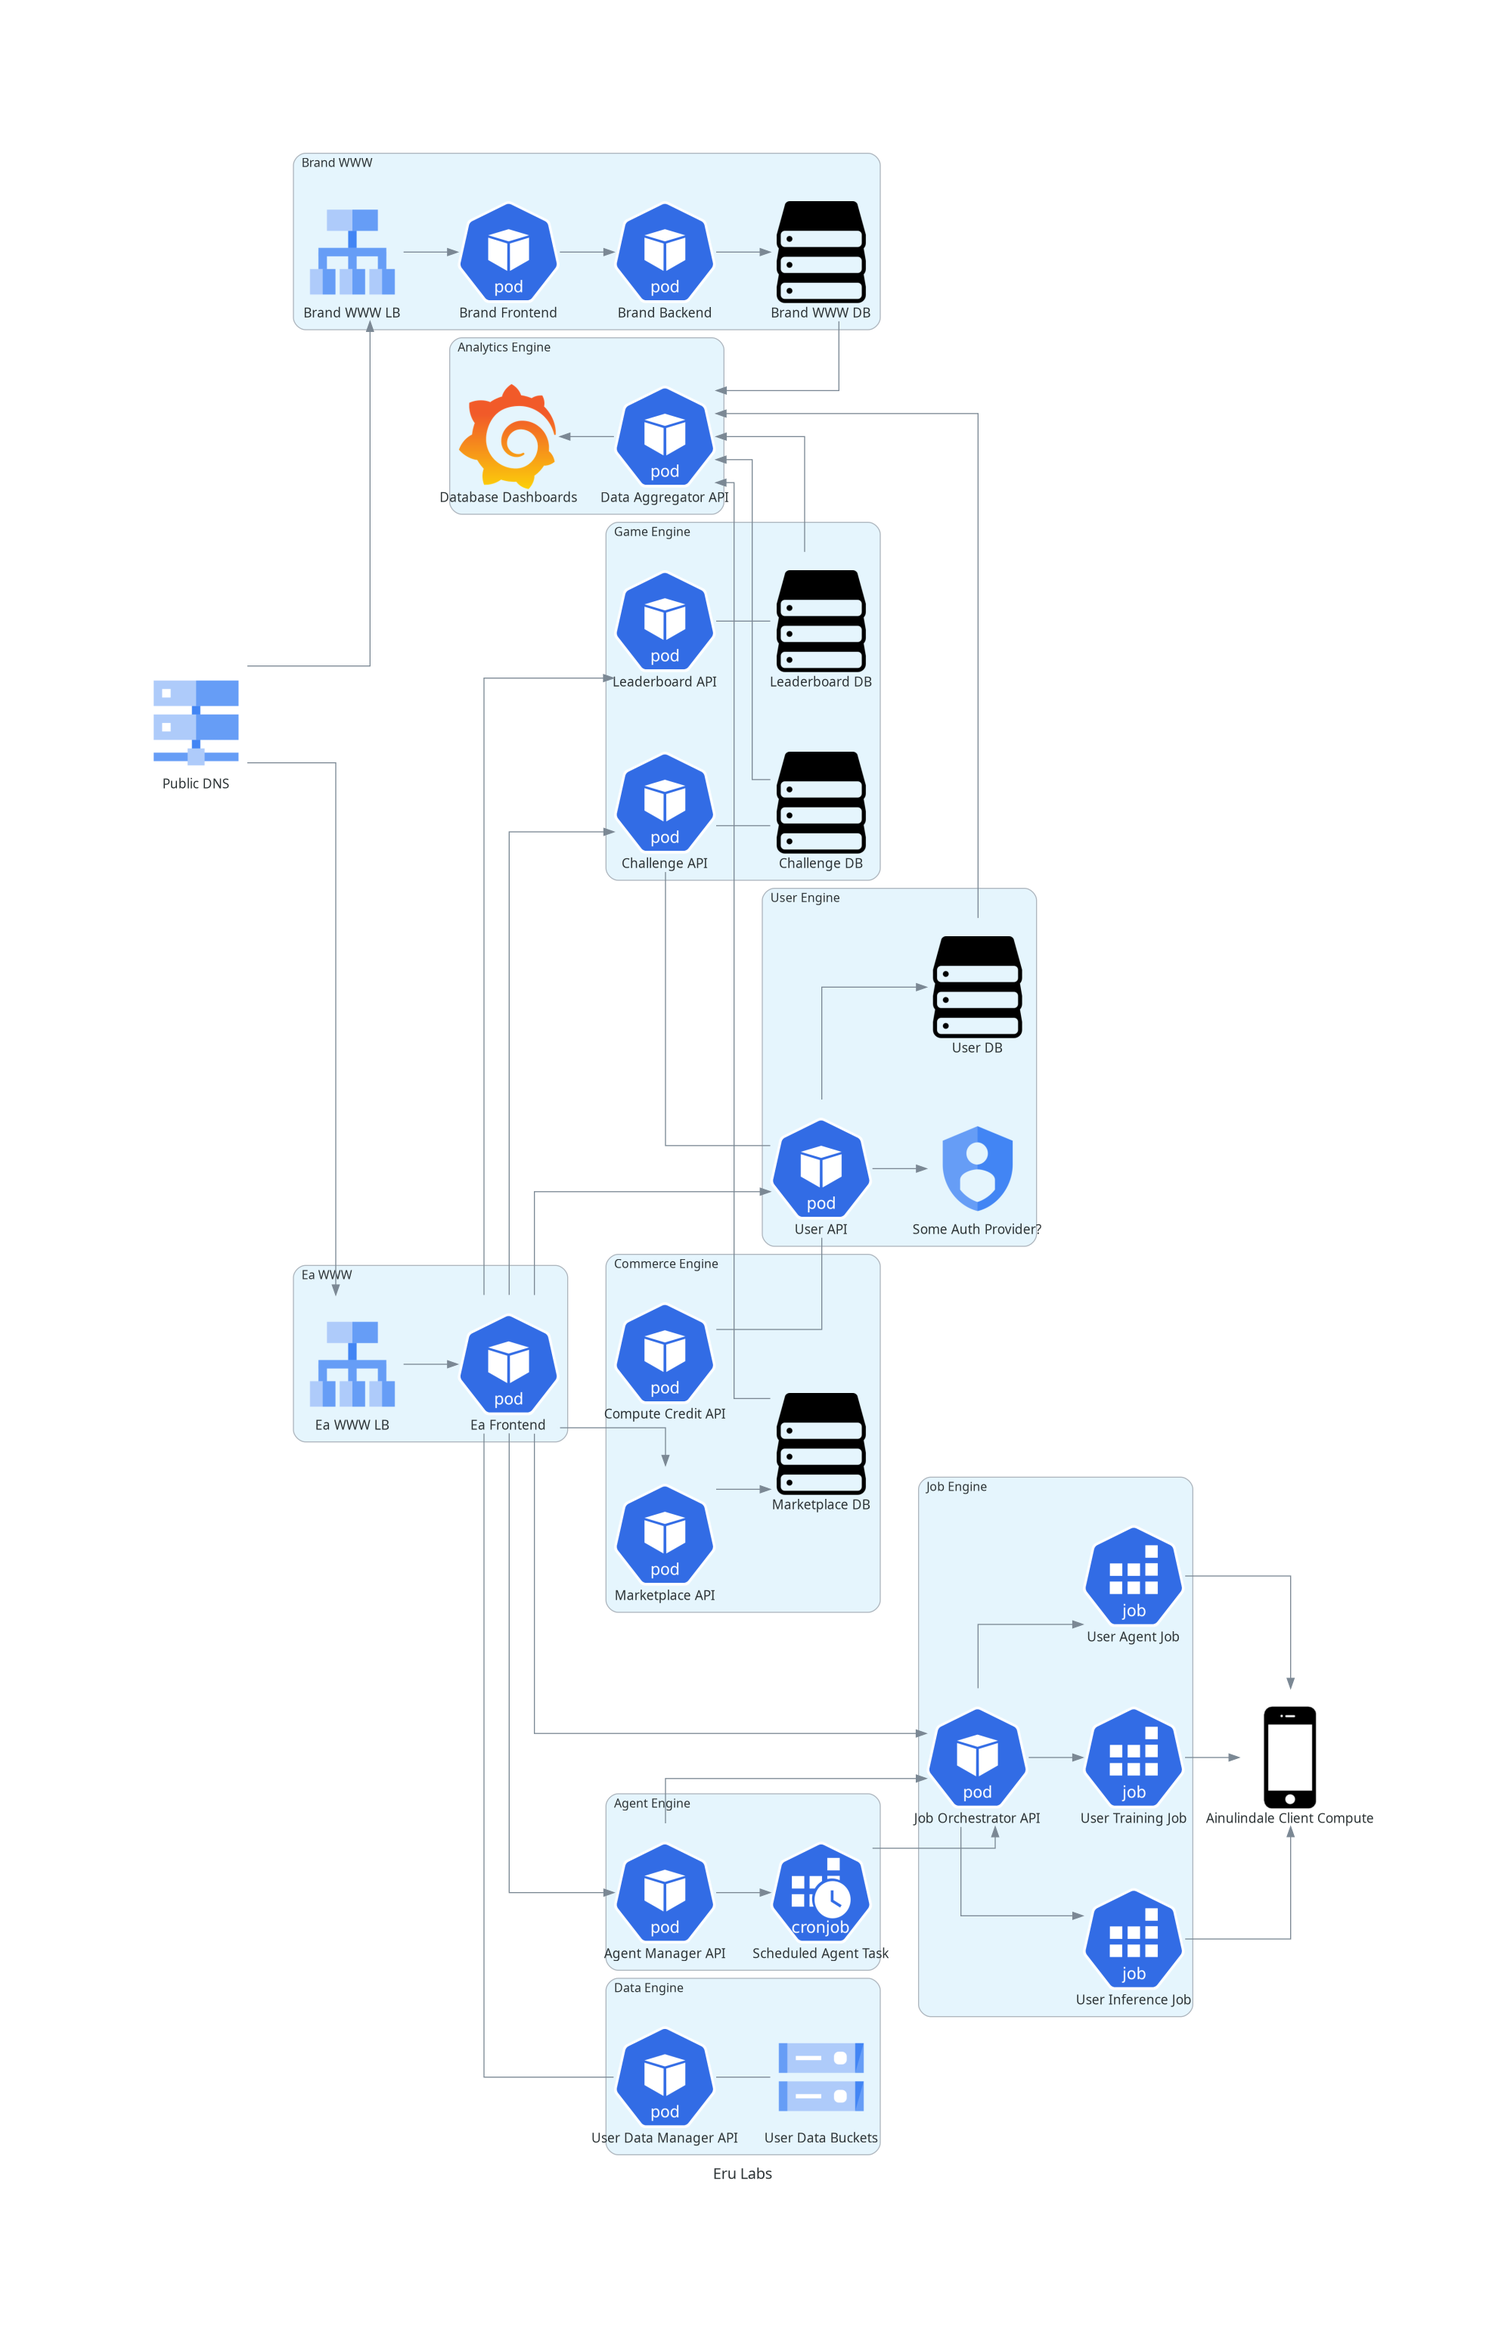
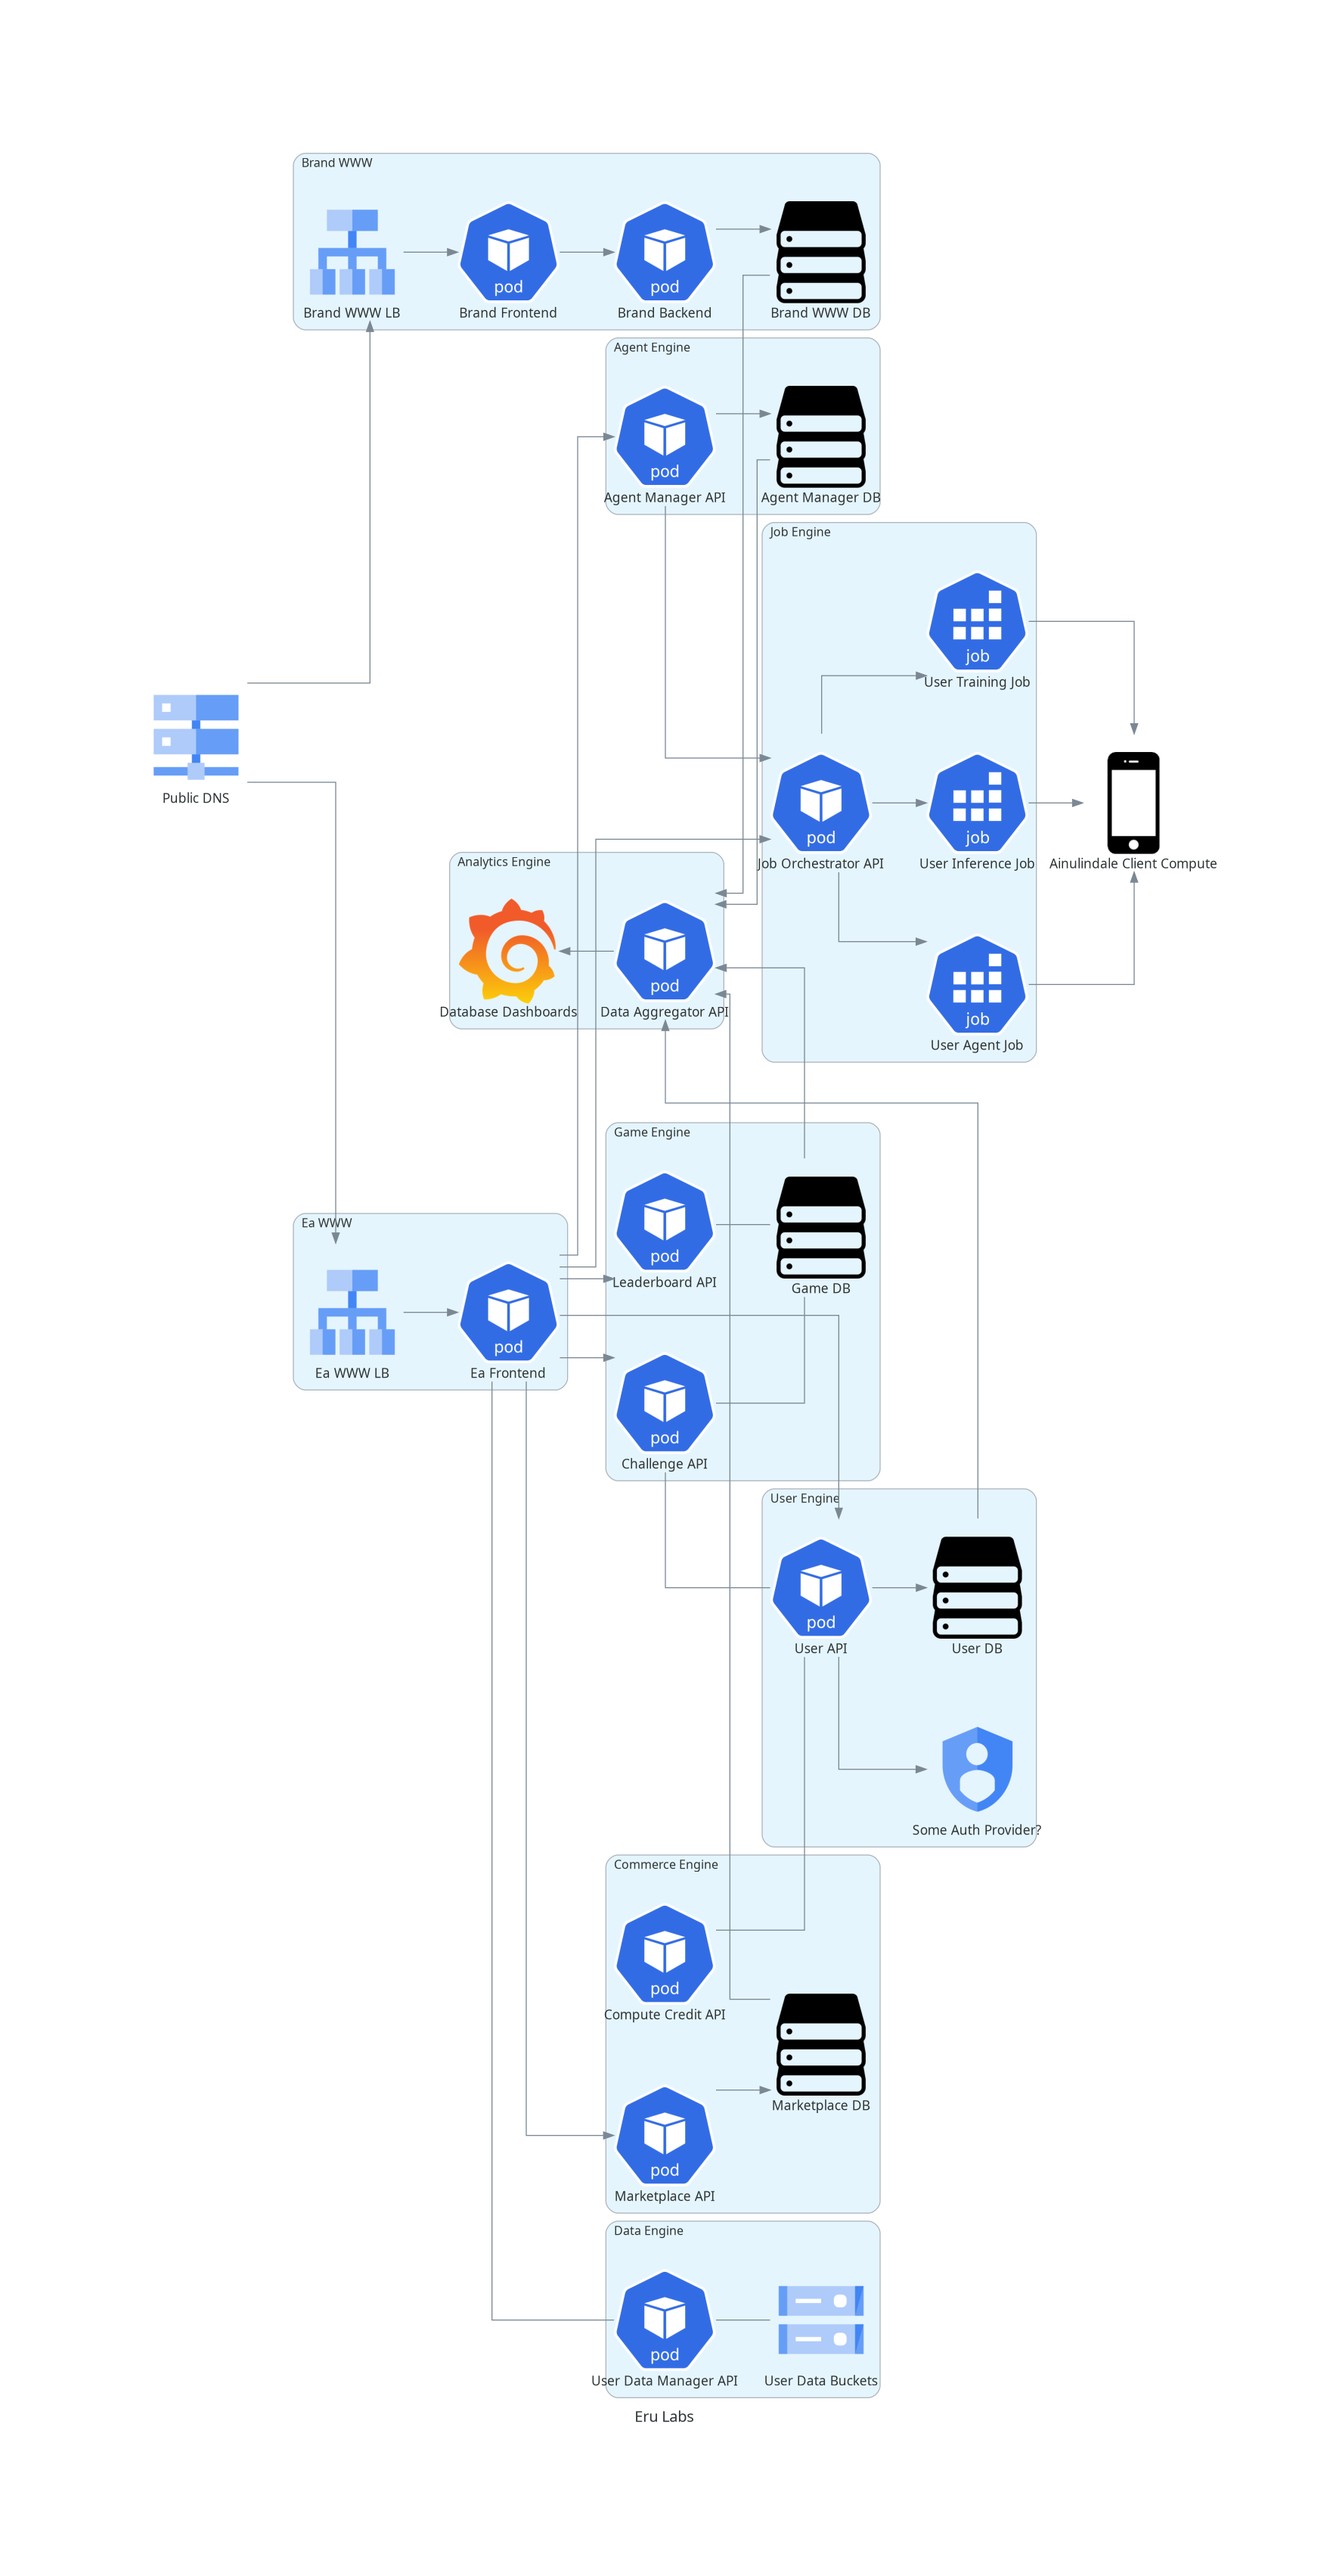
update diagram

Changed region(s): [[0.1842, 0.0622, 0.8903, 0.9335], [0.0921, 0.2489, 0.1842, 0.3423], [0.8289, 0.2801, 0.8903, 0.3423]]

diff --git a/docs/diagrams/gen-arch.py b/docs/diagrams/gen-arch.py
@@ -37,9 +37,8 @@ with Diagram("Eru Labs", show=False):
     # Ea Agent Engine
     with Cluster("Agent Engine"):
         eaAgentManager = Pod("Agent Manager API")
-        eaScheduledAgent = Cronjob("Scheduled Agent Task")
-        eaFrontend >> eaAgentManager >> eaScheduledAgent >> eaJobOrchestrator
-        eaAgentManager >> eaJobOrchestrator
+        eaAgentDB = Storage("Agent Manager DB")
+        eaFrontend >> eaAgentManager >> [eaJobOrchestrator, eaAgentDB]
 
     
     # Ea User Engine
@@ -54,11 +53,10 @@ with Diagram("Eru Labs", show=False):
     with Cluster("Game Engine"):
         eaLeaderboard = Pod("Leaderboard API")
         eaChallenge = Pod("Challenge API")
-        eaLeaderboardDB = Storage("Leaderboard DB")
-        eaChallengeDB = Storage("Challenge DB")
+        eaGameDB = Storage("Game DB")
         eaFrontend >> [eaLeaderboard, eaChallenge]
-        eaLeaderboard - eaLeaderboardDB
-        eaChallenge - eaChallengeDB
+        eaLeaderboard - eaGameDB
+        eaChallenge - eaGameDB
         eaChallenge - eaUser
 
     # Ea User Data Engine
@@ -79,7 +77,7 @@ with Diagram("Eru Labs", show=False):
     with Cluster("Analytics Engine"):
         eaDataAggregator = Pod("Data Aggregator API")
         eaDataGrafana = Grafana("Database Dashboards")
-        eaDataGrafana << eaDataAggregator << [brandDB, eaUserDB, eaChallengeDB, eaLeaderboardDB, eaMarketplaceDB]
+        eaDataGrafana << eaDataAggregator << [brandDB, eaUserDB, eaGameDB, eaMarketplaceDB, eaAgentDB]
 
 
         
